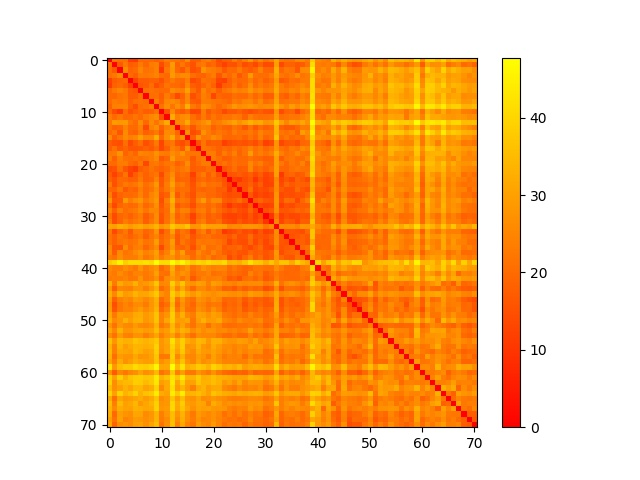
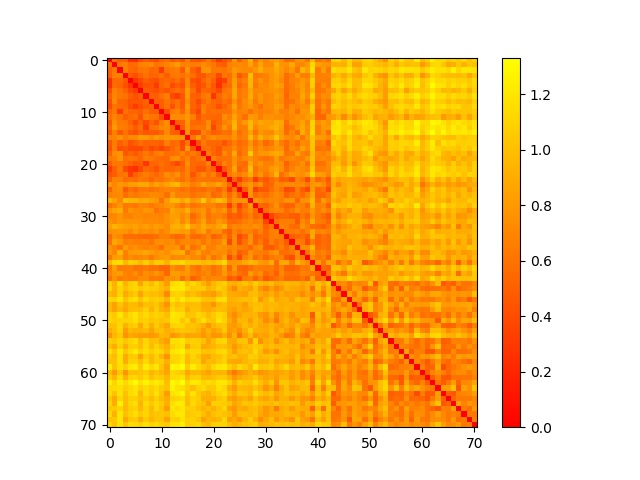
all fixed.

diff --git a/clustering_alg.py b/clustering_alg.py
@@ -13,18 +13,18 @@ def cluster_init(data,k,centorids,distance):
     clusters = []
     centorids = np.array(centorids,dtype=float)
     for i in range(0,data.shape[0]):
-        min_distance = 5000000.0
+        min_distance = 500000000.0
         k=0
         
         for j in range(0,centorids.shape[0]):
-            dist = np.sum(distance(data[i,:],centorids[j]))
+            dist = distance(data[i,:],centorids[j,:])
             if(min_distance > dist) :
                 k =j+1
                 min_distance = dist
                
         clusters.append(k)        
 
-    return np.array(clusters, dtype=float)
+    return np.array(clusters, dtype=int)
 
 def new_centroid_cal(data,clusters,k):
     cenroids = []
@@ -33,10 +33,10 @@ def new_centroid_cal(data,clusters,k):
         counter = 0
         for j in range(0,data.shape[0]):
             if clusters[j] == i:
-                cenroid = data[j,:]
+                cenroid = cenroid + data[j,:]
                 counter = counter +1
         cenroids.append(cenroid/counter)
-    return cenroids
+    return np.array(cenroids,dtype=float)
 ## greska mala izmeni nakon tusiranja
 
 
@@ -59,6 +59,7 @@ def k_means(data, k, dist_func):
 #RuntimeWarning: invalid value encountered in true_divide
  # cenroids.append(cenroid/counter)
  #nesto se ovde cudno desava... 
+ #debaguje lagano 
 
 
 

diff --git a/ari_scores_percentage_normed.py b/ari_scores_percentage_normed.py
@@ -2,7 +2,7 @@ from sklearn import metrics,cluster
 
 from scipy.spatial.distance import braycurtis,canberra,correlation,euclidean
 from scipy.stats import wasserstein_distance, energy_distance,cosine
-from support_functions import distance_matrix,normalise_data,distance_matrix_np
+from support_functions import distance_matrix,percentage_normalise,distance_matrix_np
 from PIL import Image
 from distances import hellinger,cosine_distance,dist_kulczynski, jack_knife,dist_kulczynski_vectors,cosine_distance
 from matplotlib import pyplot as plt
@@ -11,8 +11,8 @@ import numpy as np
 
 
 
-def ari_scores_normed(data,labels):
-    data = normalise_data(data) 
+def ari_scores_percentage_normed(data,labels,p1,p2):
+    data = percentage_normalise(data,p1,p2) 
     labels = np.array(labels)
     lbls =np.reshape(labels,(labels.shape[0],))
     cosine_label = k_means(data, np.max(np.unique(labels)),cosine_distance)

diff --git a/calcSiCHAffy.py b/calcSiCHAffy.py
@@ -1,5 +1,5 @@
 from sklearn import metrics
-from scipy.spatial.distance import braycurtis,canberra,correlation
+from scipy.spatial.distance import braycurtis,canberra,correlation,euclidean
 from scipy.stats import wasserstein_distance, energy_distance,cosine
 from support_functions import distance_matrix,normalise_data,distance_matrix_np
 from PIL import Image
@@ -74,7 +74,7 @@ def calcSiCHAffy(data,label,name):
     plt.savefig('Affy/distance_map/'+name[0:len(name)-4] +'_kulczynski.jpg')
     plt.close()
 
-    dist_eucl= distance_matrix(data,np.linalg.norm)
+    dist_eucl= distance_matrix(data,euclidean)
     silhouette_eucl = metrics.silhouette_score(dist_eucl,label,metric='precomputed')
     plt.imshow(dist_eucl,cmap='autumn')
     plt.colorbar()

diff --git a/zadatak1.py b/zadatak1.py
@@ -25,11 +25,12 @@ for i in range(0,len(data_file_names)):
     path_data_tmp = path_data + data_file_names[i]
     data = pd.read_csv(path_data_tmp, delimiter=' ')
     label = pd.read_csv(path_label+ label_file_names[i], delimiter=' ')
-    ari = ari_scores_normed(np.array(data,dtype=float),label)
+  #  ari = ari_scores_normed(np.array(data,dtype=float),label)
     label = np.array(label)
     
-    print(ari)
- #   scores.append(calcSiCHAffy(data,np.ravel(label),data_file_names[i]))
+  #  print(ari)
+    scores.append(calcSiCHAffy(data,np.ravel(label),data_file_names[i]))
+    print(scores)
 print('\n')
 print(scores)
 

diff --git a/distances.py b/distances.py
@@ -10,7 +10,7 @@ def cosine_distance(p,q):
     normq = np.linalg.norm(q)
     normp = np.linalg.norm(p)
     cos = dot / (normp * normq)
-    return  cos
+    return  1-cos
 
 
 
